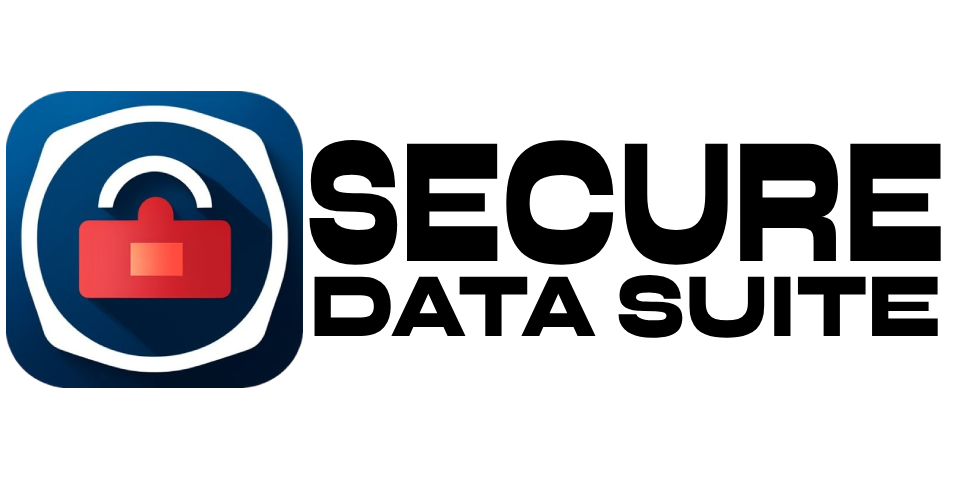
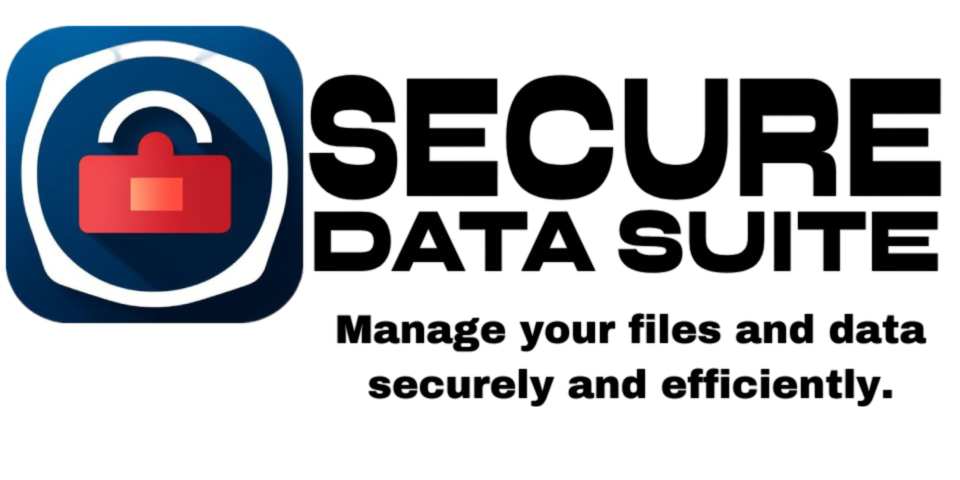
startup log, user guide, fixed text za bannerem

diff --git a/main.py b/main.py
@@ -27,7 +27,7 @@ class SecureDataSuite(QMainWindow):
 
         # Vlastnosti okna
         self.setWindowTitle("SecureData Suite")
-        self.setGeometry(700, 400, 200, 400)
+        self.setGeometry(700, 400, 200, 450)
         self.setWindowIcon(QIcon("icon.ico"))  # Ikona aplikace (musí být ve formátu .ico)
 
         self.central_widget = QWidget()
@@ -54,25 +54,31 @@ class SecureDataSuite(QMainWindow):
         info_layout.setSpacing(0)
         info_layout.setContentsMargins(0, 0, 0, 0)
 
-        # Nadpis
-        title_label = QLabel("Welcome to SecureData Suite")
-        title_label.setAlignment(Qt.AlignCenter)
-        title_label.setStyleSheet("font-size: 18px; font-weight: bold;")
         label = QLabel(self)
         pixmap = QPixmap("banner.png")  # Načtení obrázku
-        pixmap = pixmap.scaled(520, 200)
+        pixmap = pixmap.scaled(520, 220)
         label.setPixmap(pixmap)  # Nastavení obrázku na QLabel
         label.resize(pixmap.width(), pixmap.height())
         label.move(5, 20)  # Nastavení pozice QLabel v okně
 
         # Popis
-        description_label = QLabel("Manage your files and data securely and efficiently.")
+        description_label = QLabel("             ")
         description_label.setAlignment(Qt.AlignCenter)
         description_label.setStyleSheet("font-size: 14px;")
 
-        info_layout.addWidget(title_label)
         info_layout.addWidget(description_label)
         self.main_layout.addLayout(info_layout)
+
+        # Creating log entry when the app starts
+        self.create_startup_log()
+    
+    def create_startup_log(self):
+        try:
+            with open("app_logs.txt", "a") as file:
+                timestamp = QDateTime.currentDateTime().toString("yyyy-MM-dd HH:mm:ss")
+                file.write(f"App started at {timestamp}\n")
+        except Exception as e:
+            print(f"Error writing to log file: {e}")
 
     def setup_buttons(self):
         # Sekce s tlačítky
@@ -354,10 +360,19 @@ class SecureDataSuite(QMainWindow):
                 QMessageBox.warning(self, "Error", "No logs to clear.")
 
     def user_guide(self):
-        QMessageBox.information(self, "User Guide", "This application helps you manage your files securely.")
+        QMessageBox.information(self, "User Guide",
+                                "Welcome to the File Management Application!\n\n"
+                                "1. File Shredding: Securely deletes files by rewriting them 3 times and then permanently deleting them.\n"
+                                "2. File Encryption & Decryption: Encrypt and decrypt files using AES-256 encryption for maximum security.\n"
+                                "3. Metadata Scrubber: Removes sensitive metadata from files to ensure privacy.\n"
+                                "4. Password Manager: Manage your passwords securely (under development).\n\n"
+                                "Additional Features:\n"
+                                "- In the Settings menu, you can switch themes between Dark and White modes.\n\n"
+                                "Your personal safety is our priority 🔝")
 
     def about(self):
-        QMessageBox.information(self, "About", "SecureData Suite version 1.0\nDeveloped by 1K")
+        QMessageBox.information(self, "About", "SecureData Suite version 1.0\n"
+                                               "Developed by 1K")
 ##########################
 #     FILE SHREDDER      #
 ##########################
